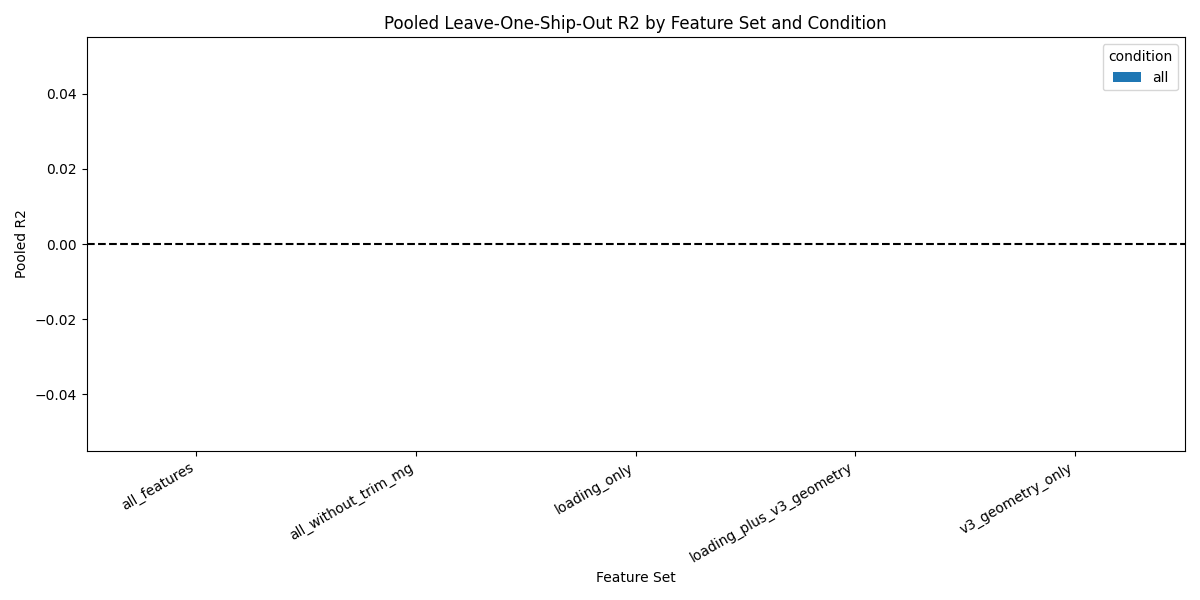
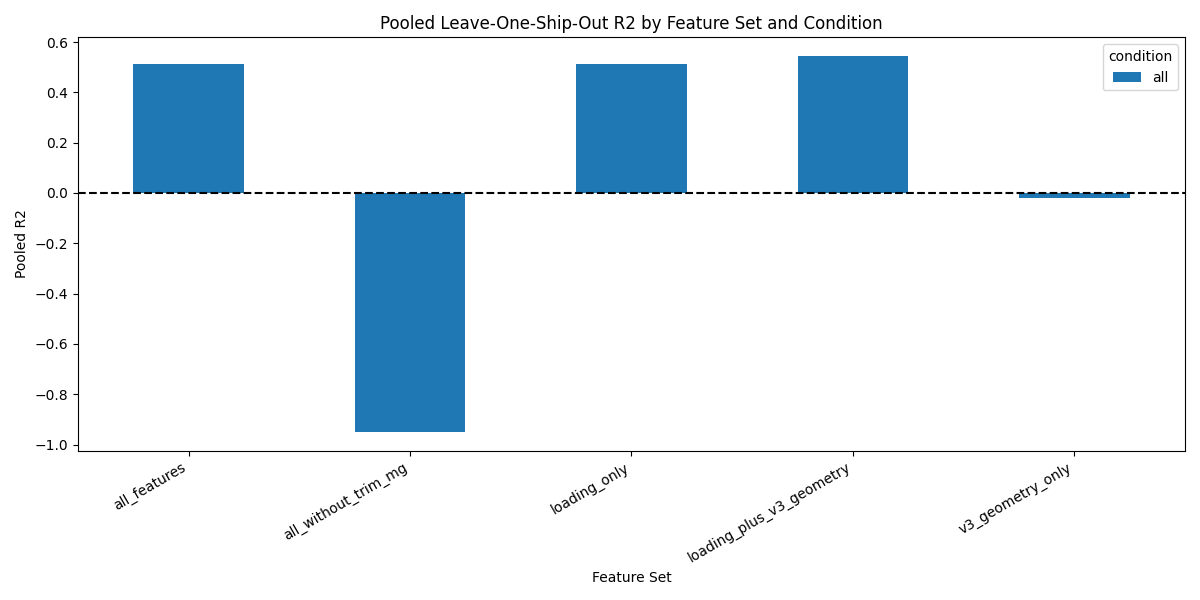
run diagnostics new plots

diff --git a/scripts/create_csv_v3.py b/scripts/create_csv_v3.py
@@ -12,11 +12,12 @@ from src.features.training_features import (
     build_training_features,
 )
 
-DB_PATH = ROOT_DIR / "data" / "mockdata.db"
-OUTPUT_PATH = ROOT_DIR / "data" / "all_ships_v8.csv"
+DB_PATH = "localhost.db"
+OUTPUT_PATH = "data/all_ships_v8.csv"
 
 
-def main(db_path: Path = DB_PATH, output_path: Path = OUTPUT_PATH) -> None:
+def main(db_path: str = DB_PATH, output_path: str = OUTPUT_PATH) -> None:
+    conn = sqlite3.connect(db_path)
     start = time.perf_counter()
     print("Creating CSV v3...", flush=True)
     print(f"Opening database: {db_path}", flush=True)
@@ -27,7 +28,6 @@ def main(db_path: Path = DB_PATH, output_path: Path = OUTPUT_PATH) -> None:
         df = build_training_features(conn, verbose=True)
         print(df.head())
         print(f"Writing CSV: {output_path}", flush=True)
-        output_path.parent.mkdir(parents=True, exist_ok=True)
         df.to_csv(output_path, index=False)
         seconds = time.perf_counter() - start
         print(f"Done: {len(df)} rows in {seconds:.1f}s", flush=True)

diff --git a/src/features/training_features.py b/src/features/training_features.py
@@ -4,7 +4,6 @@ import pandas as pd
 
 from src.features.volume_features import derive_compartment_volume_by_type
 
-
 TRAINING_FEATURE_QUERY = """
 WITH
 ship_bounds AS (
@@ -88,15 +87,8 @@ def build_training_features(
     conn: sqlite3.Connection,
     verbose: bool = False,
 ) -> pd.DataFrame:
-    if verbose:
-        print("Building base training features...", flush=True)
 
     features_df = pd.read_sql_query(TRAINING_FEATURE_QUERY, conn)
-
-    if verbose:
-        print(f"Base feature rows: {len(features_df)}", flush=True)
-        print("Building volume features...", flush=True)
-
     ship_version_ids = features_df["ship_version_id"].dropna().astype(int).unique()
 
     def print_progress(
